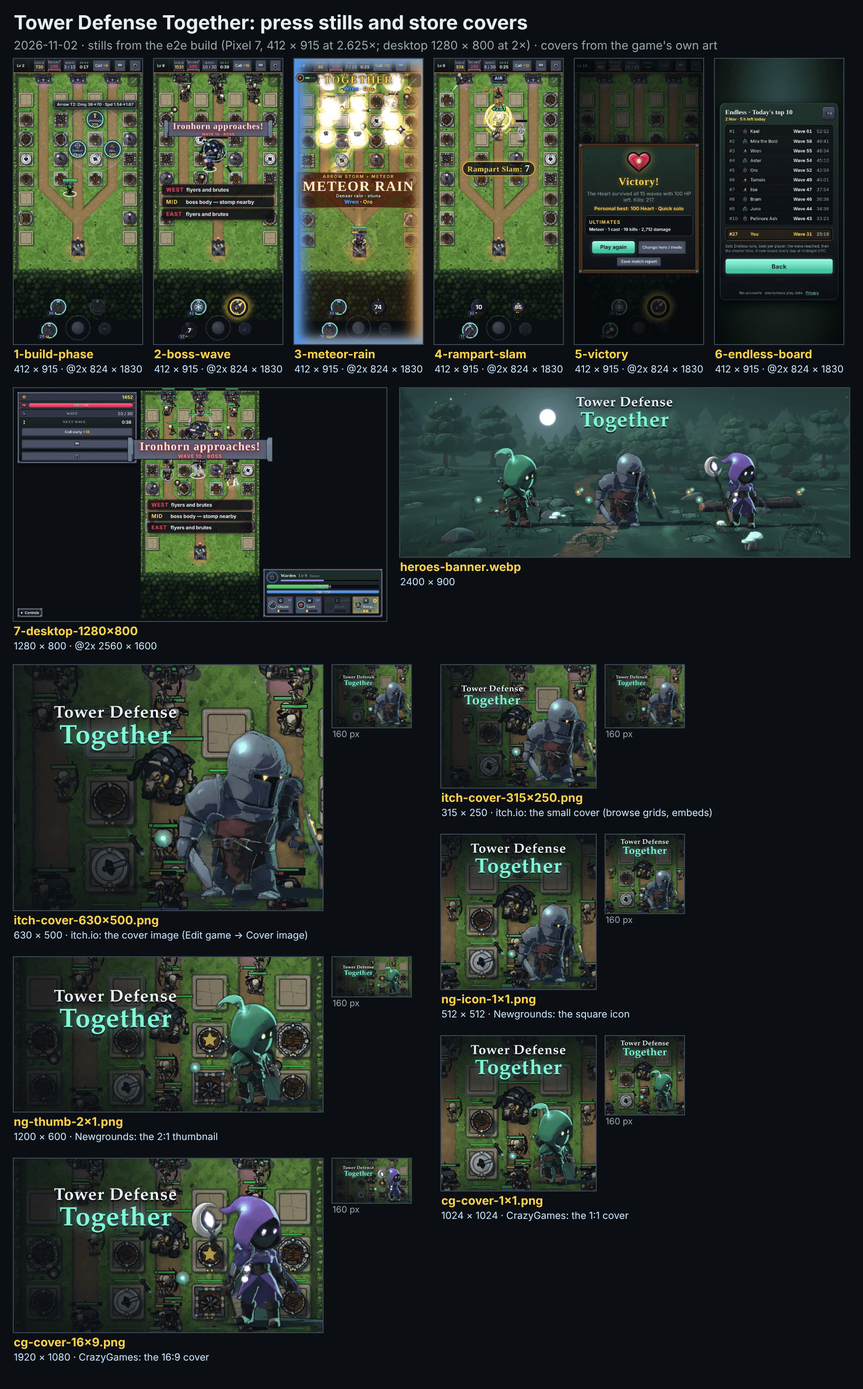
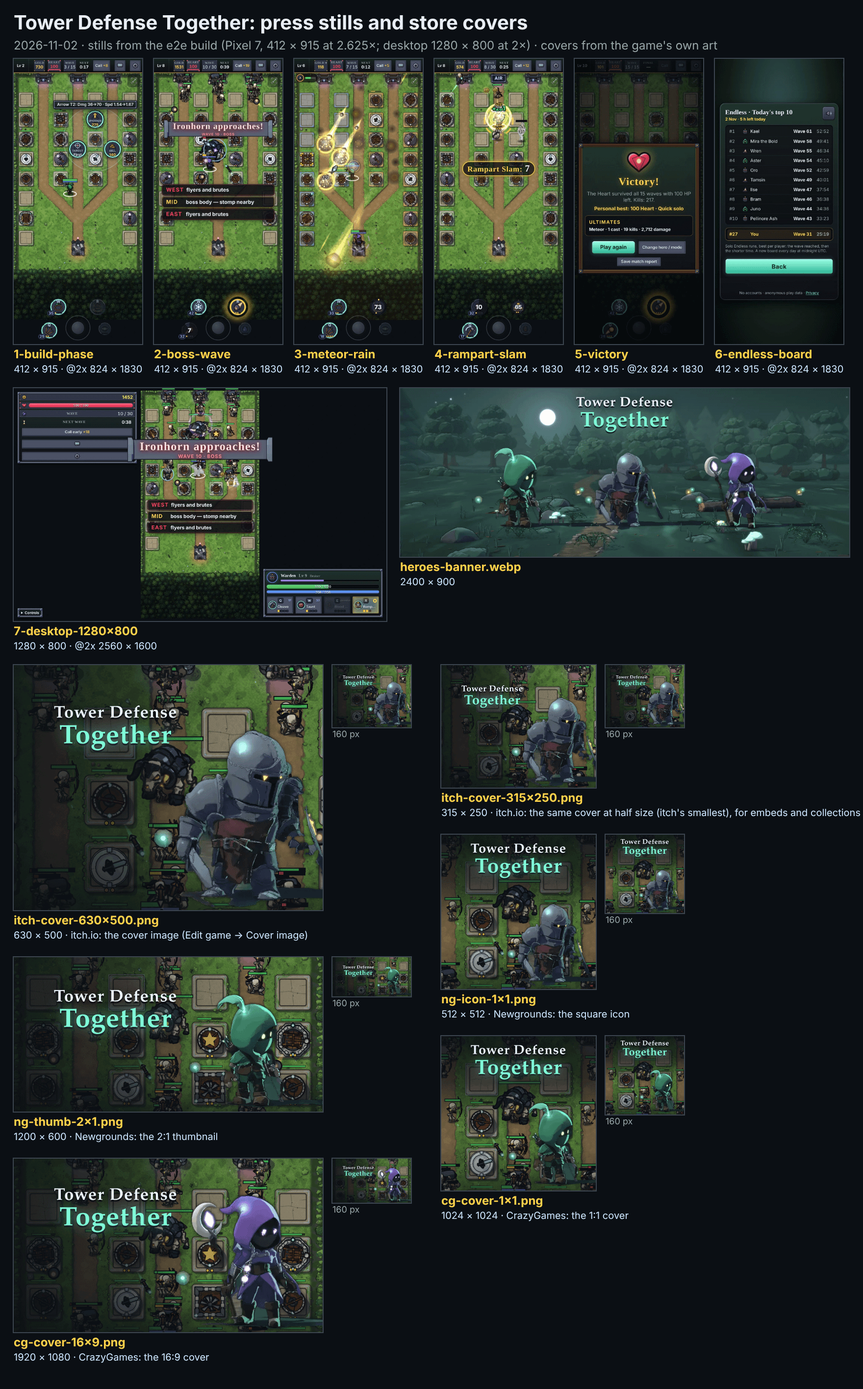
e-press: the fuse held on the ribbon's own animation; the Ranger placed on wave 6
Claude-Session: https://claude.ai/code/session_01F3BVH2wYsy29pq3JLFQWQf

Changed region(s): [[0.3125, 0.0311, 0.5, 0.2484], [0.75, 0.5589, 0.7812, 0.59], [0.5625, 0.0621, 0.5938, 0.0932]]

diff --git a/apps/client/scripts/pressShots.ts b/apps/client/scripts/pressShots.ts
@@ -559,8 +559,9 @@ async function armHold(
       };
       // By the element's own animation: `delay` ms into it (on this page it runs behind the wall clock).
       const due = () => {
-        const a = document.querySelector(sel as string)?.getAnimations({ subtree: true })[0];
-        if (a && Number(a.currentTime ?? 0) >= (delay as number)) freeze();
+        const el = document.querySelector(sel as string);
+        const own = el?.getAnimations().filter((x) => (x as CSSAnimation).animationName !== undefined)[0];
+        if (own && Number(own.currentTime ?? 0) >= (delay as number)) freeze();
         else setTimeout(due, 8);
       };
       const seen = new MutationObserver(() => {
@@ -835,8 +836,7 @@ async function shot3(browser: Browser): Promise<void> {
       { at: { x: 9, y: 13 }, kind: 'arcane', tier: 1 },
       { at: { x: 2.5, y: 13 }, kind: 'arrow', tier: 1 },
     ]);
-    // Above where the fuse ribbon sits (rows 21–29 on a phone), in the rain.
-    await walkTo(page, ROAD.mid - 1.5, 18.5);
+    await walkTo(page, ROAD.mid - 1.5, 17);
     const mine = () =>
       page.evaluate(() => {
         const t = (window as any).__tdt;
@@ -854,12 +854,20 @@ async function shot3(browser: Browser): Promise<void> {
       }) as Promise<{ wave: number; creeps: number; gold: number; ready: boolean; mateR: number }>;
     // The waves called early (the bot's button) until wave 6, then the rain on a full wave.
     let lastCall = 0;
+    let placed = false;
     const end = Date.now() + 360_000;
     for (;;) {
       if (Date.now() > end) throw new Error(`no full wave with both ultimates ready: ${JSON.stringify(await mine())}`);
       await learnAll(page);
       const m = await mine();
-      if (m.wave >= 6 && m.creeps >= 30 && m.ready) break;
+      // On wave 6 the Ranger takes his spot above where the fuse ribbon sits (rows 20–28 on a phone), before the lanes
+      // fill: a ranged hero drifts toward his targets as waves come.
+      if (m.wave >= 6 && !placed) {
+        await walkTo(page, ROAD.mid - 1.5, 17);
+        placed = true;
+        continue;
+      }
+      if (placed && m.creeps >= 30 && m.ready) break;
       if (m.wave < 6 && m.creeps < 8 && Date.now() - lastCall > 8000) {
         bot.send({ t: 'cmd', cmd: { type: 'callEarly' } });
         lastCall = Date.now();
@@ -870,12 +878,10 @@ async function shot3(browser: Browser): Promise<void> {
     }
     // Both ultimates within a moment of each other: the bot stops deciding, the Ranger casts, the bot answers.
     bot.acting = false;
-    await noToast(page, 3000);
-    // Back to his spot (a ranged hero drifts to his targets), then the fuse: held 1.1 s into the ribbon's own
-    // animation, when the combo's meteors are falling on the three lanes (the first instant is a white burst).
-    await walkTo(page, ROAD.mid - 1.5, 18.5);
     console.log('  the Ranger at', JSON.stringify(await heroAt(page)));
-    const { held } = await armHold(page, '#fuse-ribbon:not(.hidden)', 1100, 0, 'animation');
+    // The fuse held 1.1 s into the ribbon's own animation (`fuse-ribbon`, 2 s), when the combo's meteors are falling
+    // on the three lanes (its first instant is a white burst).
+    const { held } = await armHold(page, '#fuse-ribbon.on', 1100, 0, 'animation');
     await cast(page, 'R');
     bot.send({ t: 'cmd', cmd: { type: 'cast', slot: 'R' } });
     await held();
